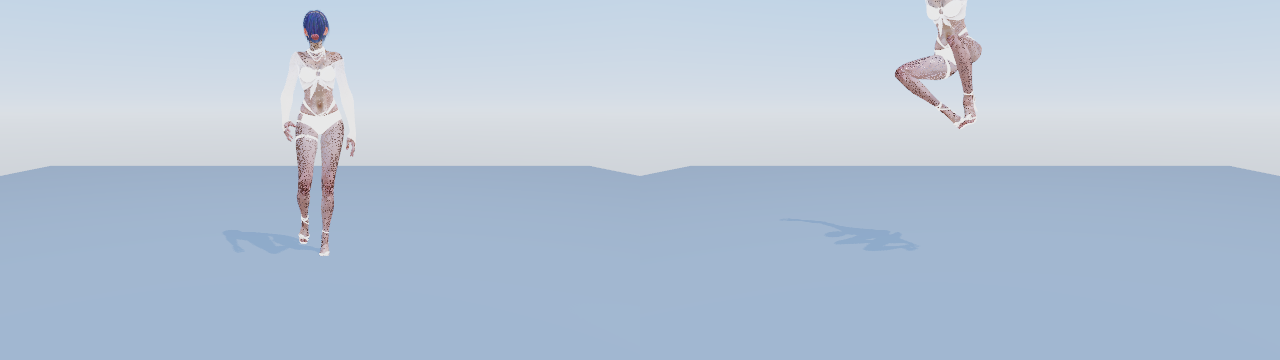
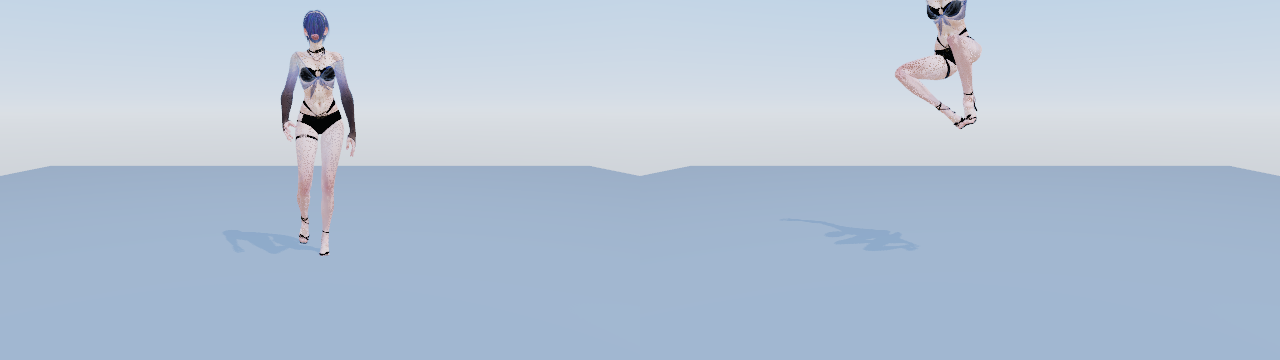
feat(exp): R66b 资产导出修复轮——GLB 重导出修复布料/皮肤/面部/挂件
用户对照 Blender 原始渲染报告四问题：布料纯白、面部不可见、皮肤噪点、
挂件不跟头。诊断链（回导 Blender 对照 + 引擎特写 + 贴图解包）定位全部
为导出语义损失，非引擎缺陷；修复全部在 Blender 侧（WeiQing.blend 已
保存，GLB 重导出 46.39MB 含 TANGENT，资产不入库）。

资产侧修复（细节 04.md §6 / frictions ③④⑤ 已闭合）：
- 白布元凶 = 导出器误追踪节点群组 Math 默认值（0.5×10）→ 写出
  emissiveFactor=[1,1,1] + KHR strength 9.1；引擎不支持 emissiveTexture
  却整片应用 factor ⇒ 自发光纯白。材质重接时 Emission 全断；
- 皮肤噪点 = 粗糙度通道语义错位（原始取 R 全白=哑光，导出直传原图后
  引擎按 glTF 语义读 G≈0.23=高光泽）+ 全 primitive 无 TANGENT（屏幕
  空间 TBN 在蒙皮曲面逐像素抖动）。重导出勾 export_tangents=True +
  烘焙正确通道 ORM（G=原 R 通道）；
- 贴图烘焙（numpy + bpy）：布料 baseColor = d×mravB 乘算 + d.alpha、
  皮肤/面部 HSV（sat 0.9/0.8、val 1.2）线性域调整，重接为导出器规范
  图（皮肤/面部 OPAQUE，布料 BLEND）；
- 四挂件（mesh_30/32/56/57）转头骨蒙皮（OBJECT 父级 + ARMATURE 修改器
  + gMan Head 权重 1）——bone-parent 经 glTF 退化为静态节点且基准位置
  偏移（回导位于 -1.4），蒙皮后引擎内真正跟头；含骨架对象缩放 2.207
  的世界空间共轭修正（S·D·S⁻¹）。

引擎侧验证（零引擎改动）：黑色泳衣+金饰恢复、皮肤噪点消失、面部五官
（含唇红）特写清晰、iris-exp 2/2 测试过、快照跨运行逐字节一致
（md5 f85dc0f9… / 0ce58b17…），docs/exp.png 重生成。

附带：exp_snapshot 增加 env 门控诊断机位（EXP_CAM_HEAD=1 头部特写，
默认不设 = 与既有行为逐位一致），供后续资产轮验收复用。

Changed region(s): [[0.2188, 0.1222, 0.2812, 0.7028], [0.6875, 0.0, 0.7812, 0.3667]]

diff --git a/games/iris-exp/examples/exp_snapshot.rs b/games/iris-exp/examples/exp_snapshot.rs
@@ -84,6 +84,28 @@ fn main() {
 
     let mut game = Harness::new();
 
+    // 诊断机位（EXP_CAM_HEAD=1）：头部特写——角色面向 +Z，头部约在
+    // y≈3.0；相机放 +Z 侧近距直视面部。正常验收不设该变量。
+    if std::env::var("EXP_CAM_HEAD").is_ok() {
+        use iris_engine::prelude::{ActiveCamera, Transform};
+        let mut hit = None;
+        game.app
+            .world
+            .query::<(iris_engine::prelude::Entity, &ActiveCamera)>(|(e, _)| {
+                hit = Some(e);
+            });
+        if let Some(cam) = hit {
+            game.app.world.insert(
+                cam,
+                Transform {
+                    position: glam::Vec3::new(0.0, 2.72, 1.5),
+                    rotation: glam::Quat::IDENTITY,
+                    scale: glam::Vec3::ONE,
+                },
+            );
+        }
+    }
+
     // ---- 帧 A：步行循环中段（迈步姿态）----
     for _ in 0..30 {
         game.frame();
